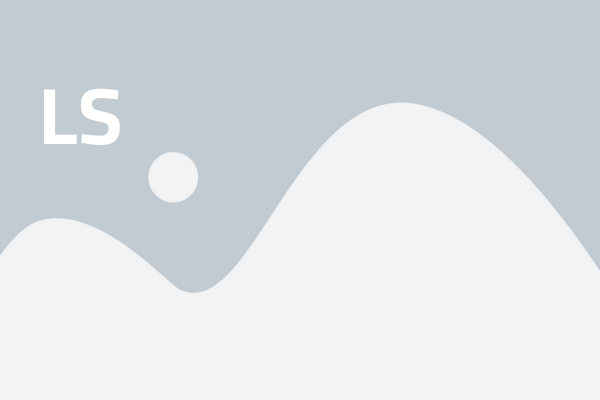
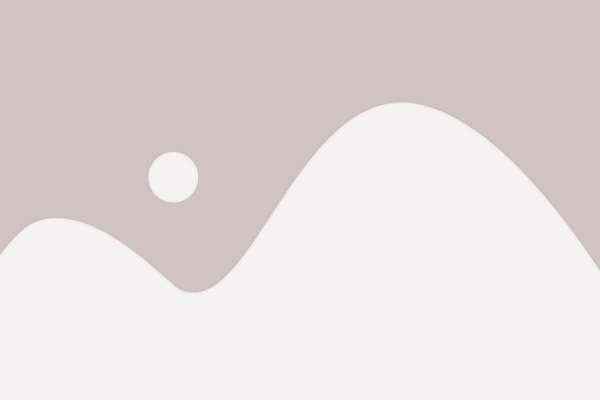
fixed issue with placeholder image

Changed region(s): [[0.06, 0.21, 0.21, 0.36]]

diff --git a/src/components/Feed/Feed.jsx b/src/components/Feed/Feed.jsx
@@ -20,7 +20,7 @@ function Feed({ blogs, currentBlog, setCurrentBlog, searchWord }) {
 
         <div className="feed-blog" onClick={() => handleSelectBlog(blog.id)} key={blog.id}>
           <span className="feed-blog-tag">{blog.tags[0]}</span>
-          <img className="feed-blog-thumbnail" src={`/images/${blog.path}.png`} alt={blog.title} />
+          <img className="feed-blog-thumbnail" src={`/images/${blog.image || ".placeholder"}.png`} alt={blog.title} />
           <div className="feed-blog-title">{blog.title}</div>
         </div>
       
